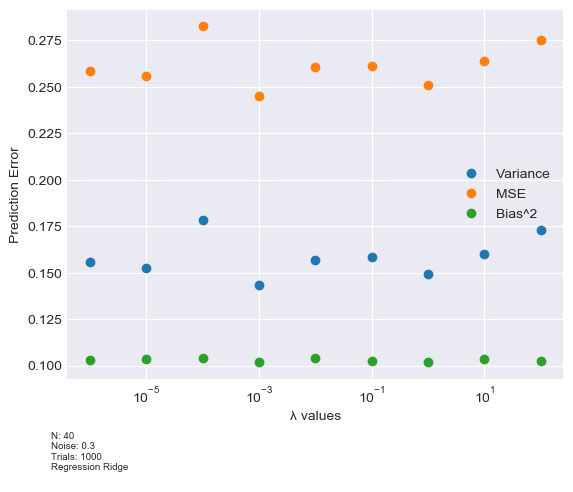
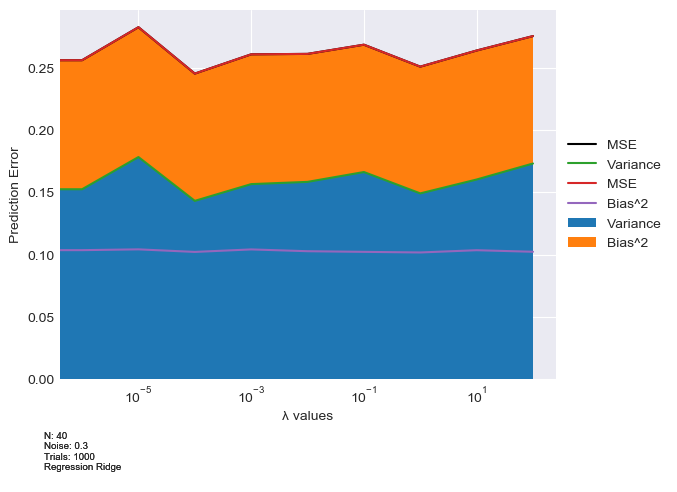
Finished d Lasso

diff --git a/Project1/e)LassoReg.py b/Project1/e)LassoReg.py
@@ -1,0 +1,85 @@
+import numpy as np
+from random import random, seed
+
+import matplotlib.pyplot as plt
+
+from RegLib.SamplingMethod import SamplingMethod
+from RegLib.RegressionMethod import RegressionType
+from RegLib.BootstrapSampling import BootstrapSampling
+from RegLib.CrossValidationKFold import CrossValidationKFold
+from RegLib.HelperFunctions import plot_bias_variance_analysis, create_frankie_data, create_X, plot_bias_variance_analysis, plot_values_with_info, progressBar
+from PROJECT_SETUP import SEED
+
+np.random.seed(SEED)
+SAVE_FIG = True
+
+# Part d): Ridge Regression on the Franke function with resampling 
+
+# Cross valid and bootstrap for different alphas
+N = 40
+noise = 0.3
+p = 4
+
+alphas = [0.0, 0.000001, 0.00001, 0.0001, 0.001, 0.01, 0.1, 1.0, 10.0, 100.0, 1000.0]
+l = len(alphas)
+
+trials = 1000
+sample_count = N
+
+kfolds = 5
+
+x, y, z = create_frankie_data(SEED, N,  noise_strength=noise)
+perm_index = np.random.permutation(len(z))
+
+mse_boot = np.zeros(l); mse_kfold = np.zeros(l); mse_boot_train = np.zeros(l); mse_kfold_train = np.zeros(l); 
+bias_boot = np.zeros(l); var_boot = np.zeros(l)
+
+for i in range(len(alphas)):
+    progressBar(i + 1, l)
+    X = create_X(x, y, p, debug = False)
+
+    crossval = CrossValidationKFold(kfolds).train_and_test(X, z, perm_index = perm_index, model_type = RegressionType.Lasso, alpha = alphas[i])
+    boot = BootstrapSampling(trials, sample_count).train_and_test(X, z, perm_index = perm_index, model_type = RegressionType.Lasso, alpha = alphas[i])
+
+    mse_kfold[i] = crossval.mse
+    mse_kfold_train[i] = crossval.mse_train
+    mse_boot[i] = boot.mse
+    mse_boot_train[i] = boot.mse_train
+    bias_boot[i] = boot.bias
+    var_boot[i] = boot.var
+
+values_to_plot = {
+    "Bootstrap Test": mse_boot,
+    "Cross-validation Test": mse_kfold,
+    "Bootstrap Train": mse_boot_train,
+    "Cross-validation Train": mse_kfold_train,
+}
+
+info_to_add = {
+    "N: ": N,
+    "Noise: ": noise,
+    "Trials: ": trials,
+    "Kfolds: ": kfolds, 
+    "Regression": " Lasso",
+}
+
+plot_values_with_info(alphas, values_to_plot, title = "e)LassoAlphaBootVsCross", xlabel = "λ values", ylabel = "Prediction Error", info_to_add = info_to_add, xscale = "log", save_fig=SAVE_FIG)
+
+# Bias-variance trade-off using bootstrap for different alphas
+
+values_to_plot = {
+    "Variance": var_boot,
+    "MSE": mse_boot,
+    "Bias^2": bias_boot,
+}
+
+info_to_add = {
+    "N: ": N,
+    "Noise: ": noise,
+    "Trials: ": trials,
+    "Regression": " Lasso",
+}
+
+plot_bias_variance_analysis(alphas, values_to_plot, title = "e)BiasVarTradeoffSumLassoAlphas", xlabel = "λ values", ylabel = "Prediction Error", info_to_add = info_to_add, xscale = "log", save_fig=SAVE_FIG)
+
+plot_values_with_info(alphas, values_to_plot, title = "e)BiasVarTradeoffLassoAlphas", xlabel = "λ values", ylabel = "Prediction Error", info_to_add = info_to_add, xscale = "log", save_fig=SAVE_FIG)

diff --git a/Project1/d)RidgeReg.py b/Project1/d)RidgeReg.py
@@ -7,10 +7,11 @@ from RegLib.SamplingMethod import SamplingMethod
 from RegLib.RegressionMethod import RegressionType
 from RegLib.BootstrapSampling import BootstrapSampling
 from RegLib.CrossValidationKFold import CrossValidationKFold
-from RegLib.HelperFunctions import plot_bias_variance_analysis, create_frankie_data, create_X, plot_bias_variance_analysis, plot_values_with_info, progressBar
+from RegLib.HelperFunctions import plot_bias_variance_analysis, create_frankie_data, create_X, plot_values_with_info, progressBar
 from PROJECT_SETUP import SEED
 
 np.random.seed(SEED)
+SAVE_FIG = True
 
 # Part d): Ridge Regression on the Franke function with resampling 
 
@@ -20,7 +21,7 @@ N = 40
 noise = 0.3
 p = 4
 
-alphas = [0.000001, 0.00001, 0.0001, 0.001, 0.01, 0.1, 0.0, 1.0, 10.0, 100.0]
+alphas = [0.0, 0.000001, 0.00001, 0.0001, 0.001, 0.01, 0.1, 1.0, 10.0, 100.0]
 l = len(alphas)
 
 trials = 1000
@@ -52,8 +53,8 @@ for i in range(len(alphas)):
 values_to_plot = {
     "Bootstrap Test": mse_boot,
     "Cross-validation Test": mse_kfold,
-    #"Bootstrap Train": mse_boot_train,
-    #"Cross-validation Train": mse_kfold_train,
+    "Bootstrap Train": mse_boot_train,
+    "Cross-validation Train": mse_kfold_train,
 }
 
 info_to_add = {
@@ -64,16 +65,7 @@ info_to_add = {
     "Regression": " Ridge",
 }
 
-#plot_values_with_info(alphas, values_to_plot, title = "RidgeAlphaBootVsCross", xlabel = "λ values", ylabel = "Prediction Error", info_to_add = info_to_add, xscale = "log", save_fig=False, scatter = True)
-
-values_to_plot2 = {
-    # "Bootstrap Test": mse_boot,
-    #"Cross-validation Test": mse_kfold,
-    "Bootstrap Train": mse_boot_train,
-    "Cross-validation Train": mse_kfold_train,
-}
-
-#plot_values_with_info(alphas, values_to_plot2, title = "RidgeAlphaBootVsCrossTrain", xlabel = "λ values", ylabel = "Prediction Error", info_to_add = info_to_add, xscale = "log", save_fig=False, scatter = True)
+#plot_values_with_info(alphas, values_to_plot, title = "d)RidgeAlphaBootVsCross", xlabel = "λ values", ylabel = "Prediction Error", info_to_add = info_to_add, xscale = "log", save_fig=SAVE_FIG)
 
 # Bias-variance trade-off using bootstrap for different alphas
 
@@ -90,5 +82,7 @@ info_to_add = {
     "Regression": " Ridge",
 }
 
-#plot_values_with_info(alphas, values_to_plot, title = "BiasVarTradeoffRidgeAlphas", xlabel = "λ values", ylabel = "Prediction Error", info_to_add = info_to_add, xscale = "log", save_fig=False, scatter = True)
+#plot_bias_variance_analysis(alphas, values_to_plot, title = "d)BiasVarTradeoffSumRidgeAlphas", xlabel = "λ values", ylabel = "Prediction Error", info_to_add = info_to_add, xscale = "log", save_fig=SAVE_FIG)
+
+#plot_values_with_info(alphas, values_to_plot, title = "d)BiasVarTradeoffRidgeAlphas", xlabel = "λ values", ylabel = "Prediction Error", info_to_add = info_to_add, xscale = "log", save_fig=SAVE_FIG)
 

diff --git a/Project1/RegLib/HelperFunctions.py b/Project1/RegLib/HelperFunctions.py
@@ -91,6 +91,7 @@ def plot_3d_graph(x, y, z, title, z_title = "Z", dpi = 150, formatter = '%.02f',
     if save_fig:
         save_figure(title)
     plt.show()
+    plt.cla()
 
 def confidence_interval(X, z, beta, noise_strength, N, percentile = 1.95, title = "Confidence Intervals of beta", save_fig = False):
     sns.set_style("whitegrid")
@@ -106,6 +107,7 @@ def confidence_interval(X, z, beta, noise_strength, N, percentile = 1.95, title 
     if save_fig:
         save_figure(title + str(N) + str(noise_strength))
     plt.show()
+    plt.cla()
 
 def parse_info_for_plot(info_to_add):
     info_str = ""
@@ -125,7 +127,7 @@ def plot_values_with_info(polydegree, values_to_plot, title = "TestTrainErrorAsM
             plt.plot(polydegree, values_to_plot[val], label=val)
     plt.xlabel(xlabel)
     plt.ylabel(ylabel)
-    plt.legend()
+    plt.legend(loc='center left', bbox_to_anchor=(1, 0.5))
 
     info_str, title_info = parse_info_for_plot(info_to_add)
     
@@ -152,7 +154,7 @@ def plot_bias_variance_analysis(polydegree, values_to_plot, title = "BiasVarTrad
     plt.ylabel(ylabel)
     ax.stackplot(polydegree, y1, y2, labels=labels)
     ax.plot(polydegree, values_to_plot["MSE"], color="black", label = "MSE")
-    ax.legend(loc='upper right')
+    ax.legend(loc='center left', bbox_to_anchor=(1, 0.5))
     plt.xscale(xscale)
     
     info_str, title_info = parse_info_for_plot(info_to_add)
@@ -164,6 +166,7 @@ def plot_bias_variance_analysis(polydegree, values_to_plot, title = "BiasVarTrad
         save_figure(title + title_info)
     else:
         plt.show()
+    plt.cla()
 
 def create_mesh(n, random_mesh = False, seed = None):
     if random_mesh:

diff --git a/Project1/b)ResamplingBiasVar.py b/Project1/b)ResamplingBiasVar.py
@@ -8,6 +8,7 @@ from RegLib.HelperFunctions import create_frankie_data, create_X, plot_bias_vari
 from PROJECT_SETUP import SEED
 
 np.random.seed(SEED)
+SAVE_FIG = True
 
 # Part b): Bias-variance trade-off and resamplng techniques
 
@@ -44,7 +45,7 @@ info_to_add = {
     "Noise: ": noise
 }
 
-plot_values_with_info(polydegree, values_to_plot, title = "TestTrainErrorAsModelComplexity", xlabel = "Polynomial Degree", ylabel = "Prediction Error", info_to_add = info_to_add, save_fig=False)
+plot_values_with_info(polydegree, values_to_plot, title = "b)TestTrainErrorAsModelComplexity", xlabel = "Polynomial Degree", ylabel = "Prediction Error", info_to_add = info_to_add, save_fig=SAVE_FIG)
 
 # Bias-variance trade-off
 

diff --git a/Project1/RegLib/RegressionMethod.py b/Project1/RegLib/RegressionMethod.py
@@ -39,7 +39,6 @@ class RegressionMethod(object):
     def __find_beta_Lasso(self, X_train, y_train):
         clf = Lasso(alpha = self.alpha, fit_intercept=False, normalize=False, max_iter=10000, tol=0.006).fit(X_train, y_train)
         self.beta = clf.coef_
-        print(self.beta.shape)
         return self
 
     def get_y_pred(self, X_data):
